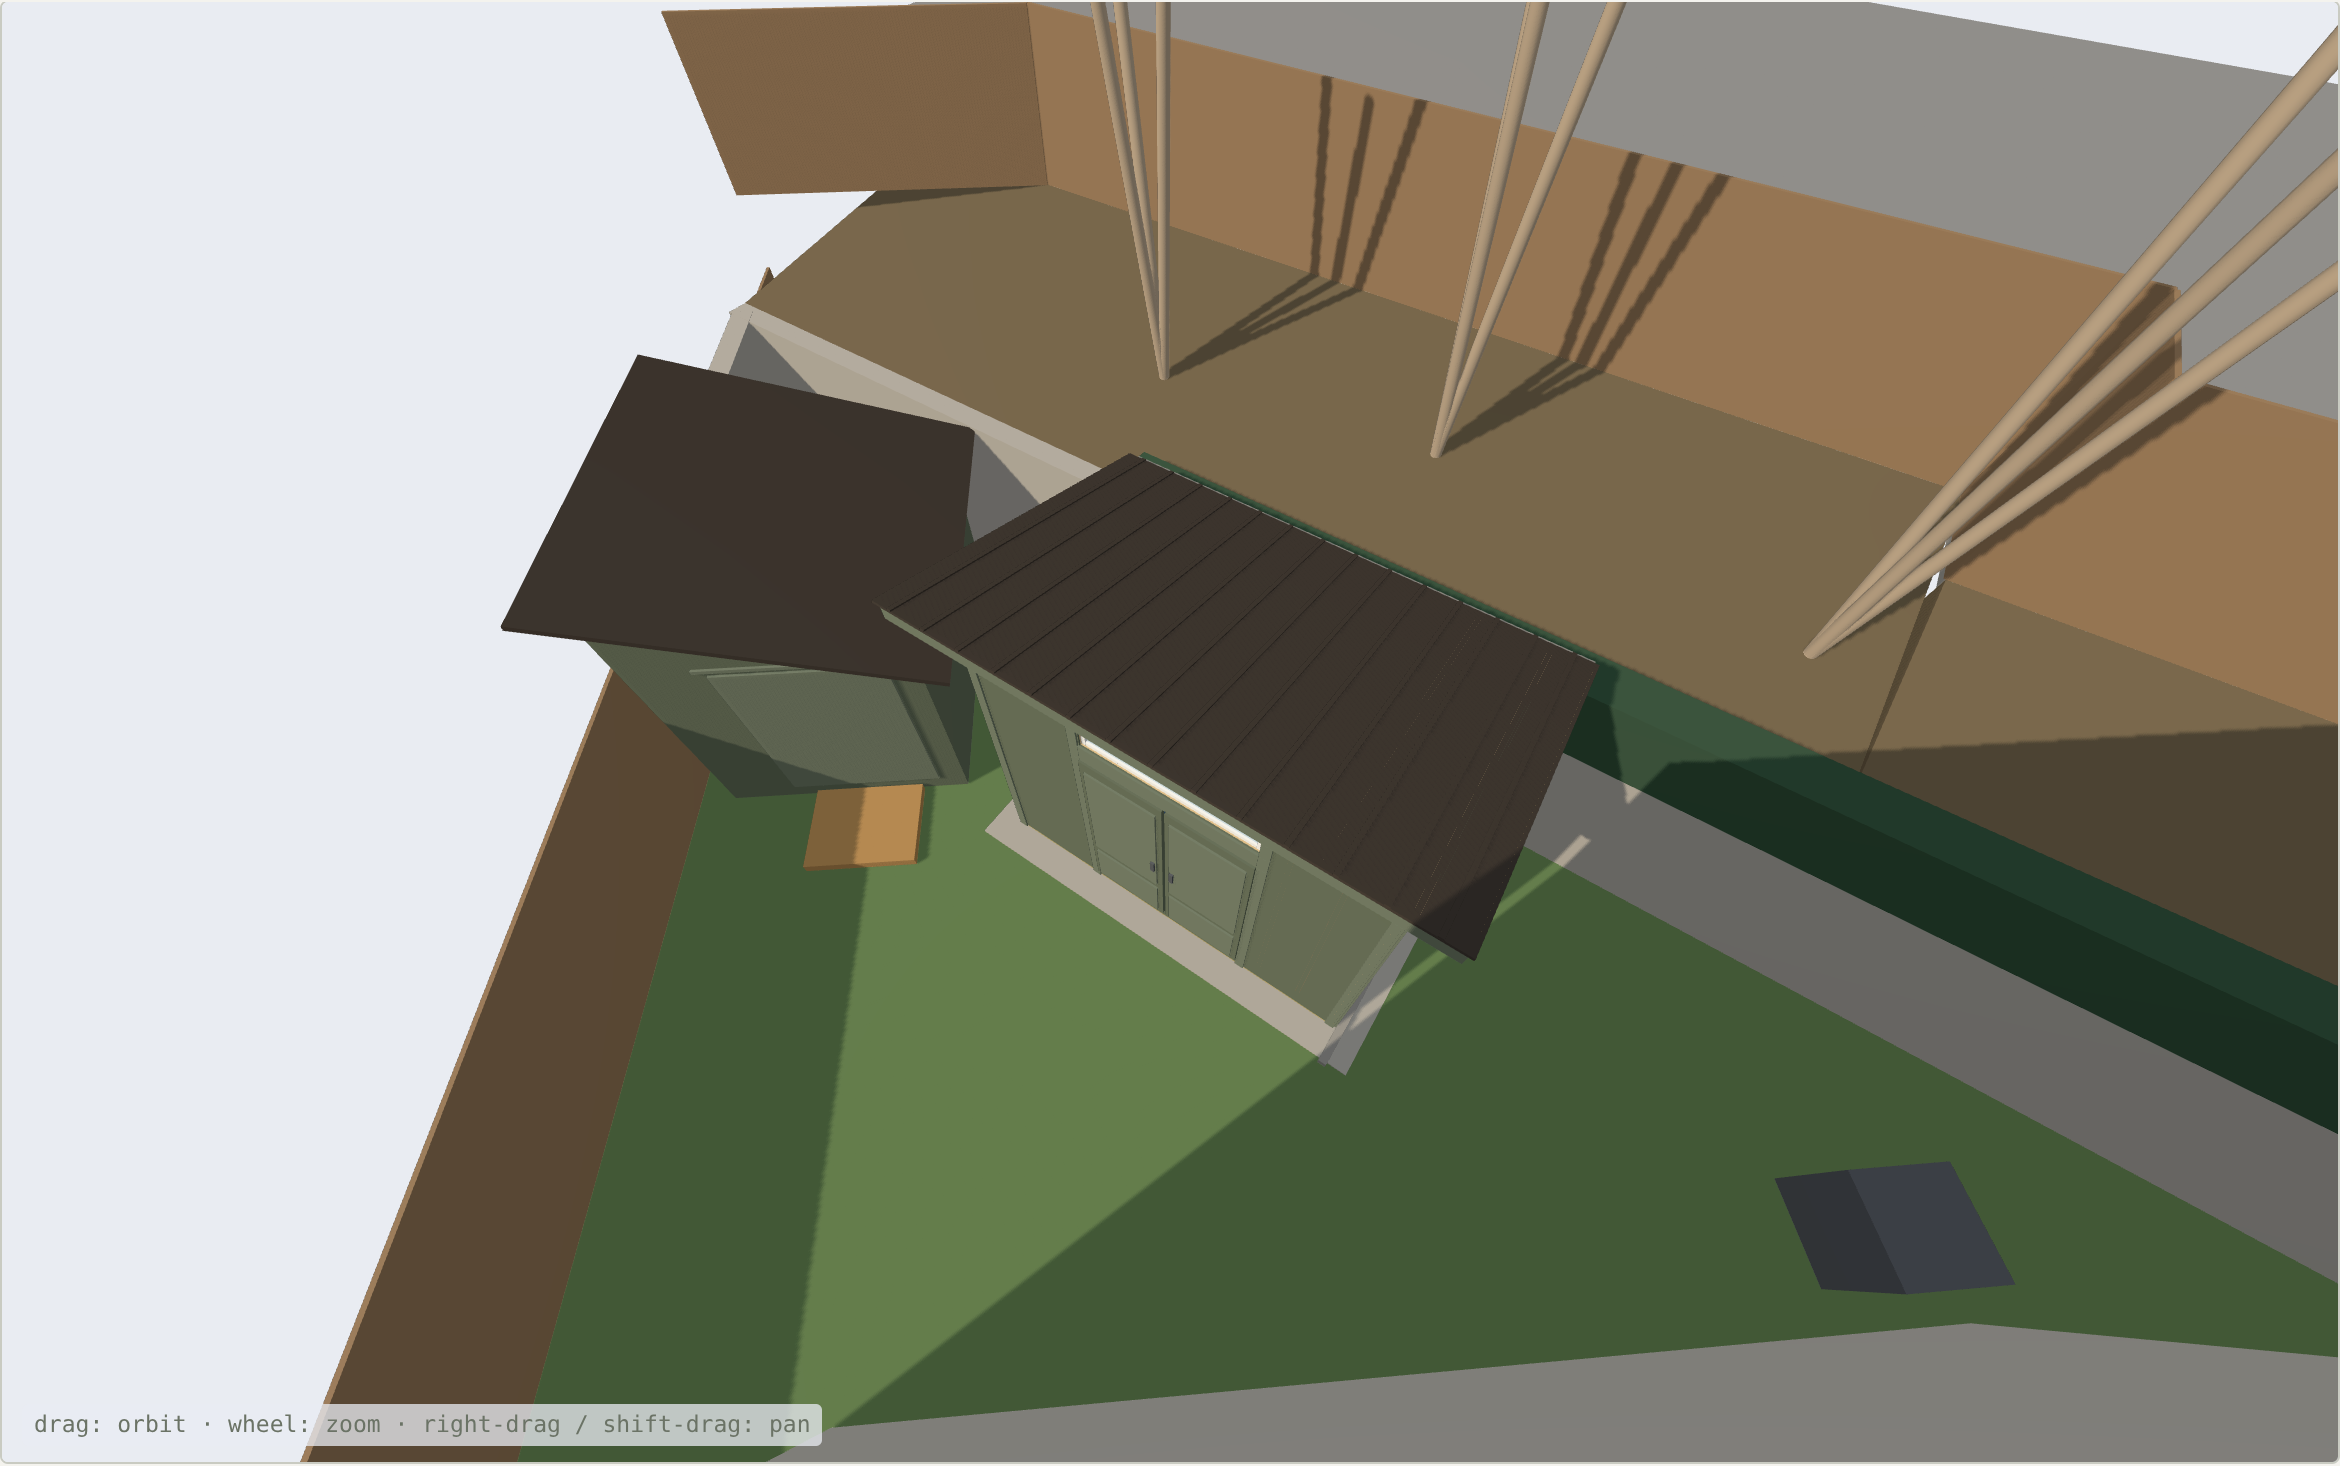
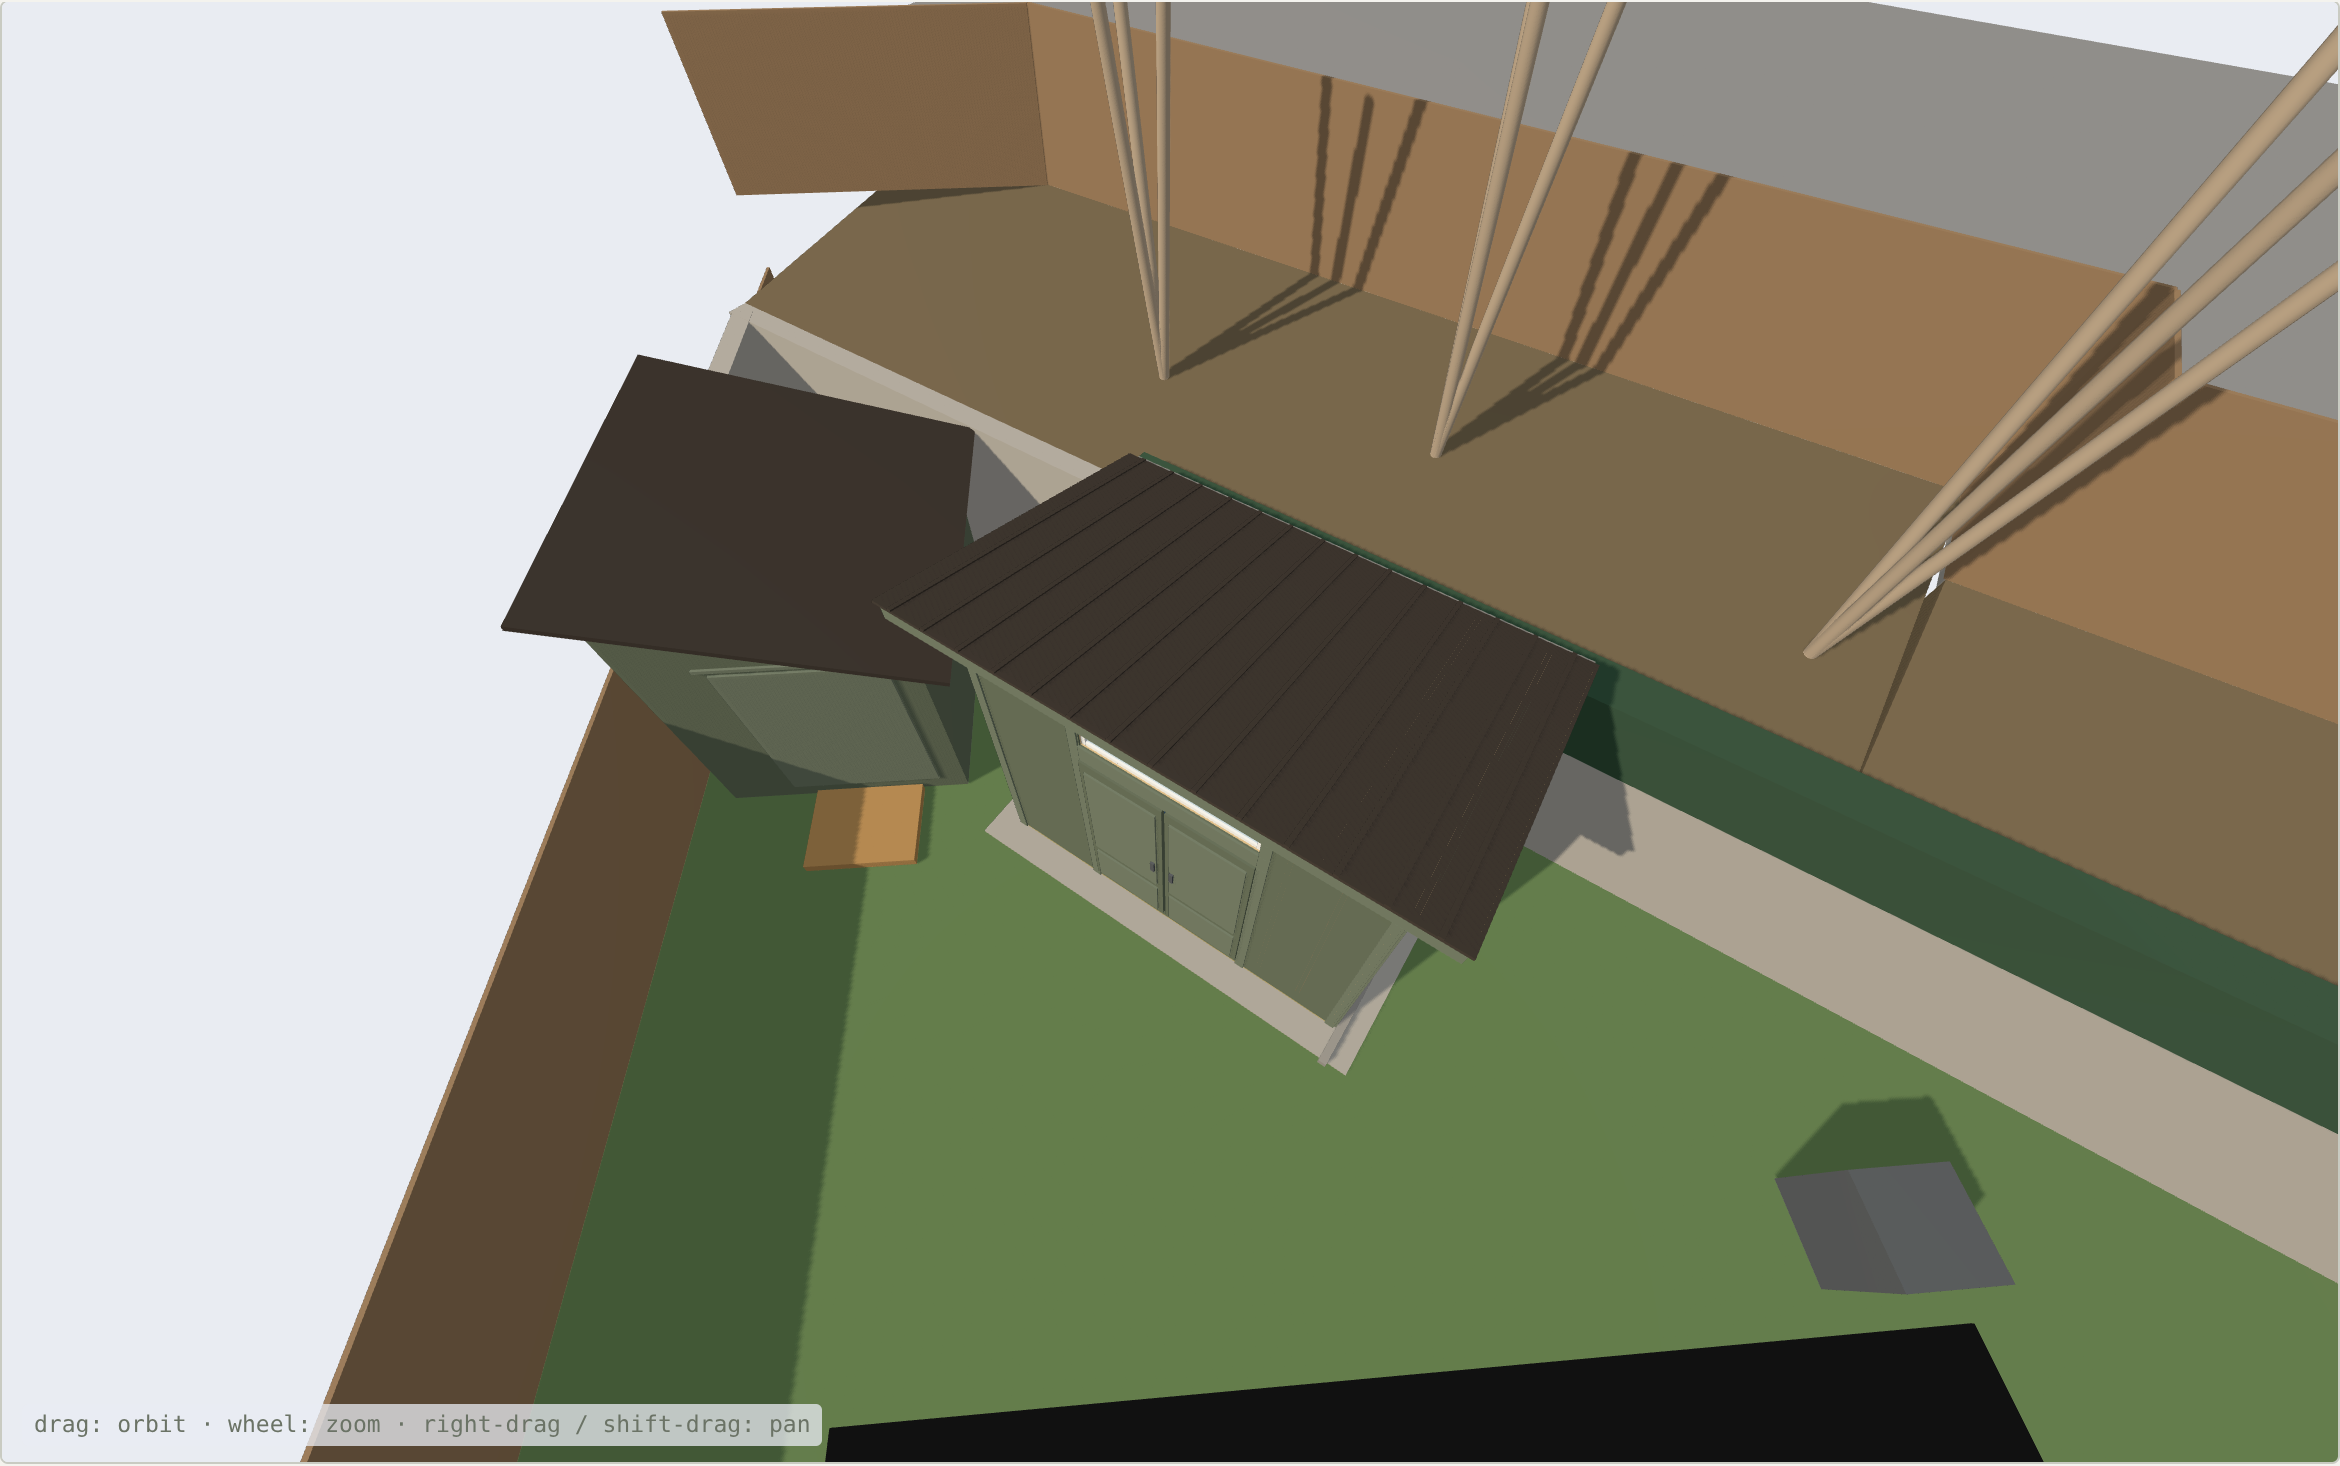
Wesley Ave bike shop 3D: house replaced by a black footprint
The house block hid the shop from most angles. It is now a flat
black shape on the ground so the model can be orbited freely.

Claude-Session: https://claude.ai/code/session_01R9UvhtAqJY5gdMeoqmJDyn

Changed region(s): [[0.312, 0.4911, 1.0, 1.0]]

diff --git a/docs/wesley-ave/bike-shop-3d.html b/docs/wesley-ave/bike-shop-3d.html
@@ -41,7 +41,7 @@
   <header>
     <div class="eyebrow">2926 Wesley Ave, Charlotte &middot; 12' x 6' bike shop, no permit</div>
     <h1>Wesley Ave bike shop in 3D</h1>
-    <p class="lede">The shop as it would stand along the retaining wall behind the house: tall door wall facing the yard with a transom, the roof pitched 2.8:12 toward the wall and carried 26" past the back wall to cover the strip behind it, six XL 29ers on Steadyracks, the bench by the door, the parts tower and the parked stand inside, wheels and long tools hung under the overhang outside. The site was corrected on 10 November from two photos taken on the third-floor deck: the wall is inside the lot with a planted bank and the sidewalk fence behind it, the old shed's back corner nearly touches the wall, and the lawn between the house and the old shed is about 17.5 ft deep, so the shop was cut from 8 ft to 6 ft deep, which puts its nearest corner about 8.3 ft from the house. Drag to orbit, scroll to zoom, right-drag or shift-drag to pan. Untick the skin to see the framing.</p>
+    <p class="lede">The shop as it would stand along the retaining wall behind the house: tall door wall facing the yard with a transom, the roof pitched 2.8:12 toward the wall and carried 26" past the back wall to cover the strip behind it, six XL 29ers on Steadyracks, the bench by the door, the parts tower and the parked stand inside, wheels and long tools hung under the overhang outside. The site was corrected on 10 November from two photos taken on the third-floor deck: the wall is inside the lot with a planted bank and the sidewalk fence behind it, the old shed's back corner nearly touches the wall, and the lawn between the house and the old shed is about 17.5 ft deep, so the shop was cut from 8 ft to 6 ft deep, which puts its nearest corner about 8.3 ft from the house. The house itself is not drawn, so you can orbit freely: the black shape on the ground is its footprint. Drag to orbit, scroll to zoom, right-drag or shift-drag to pan. Untick the skin to see the framing.</p>
   </header>
 
   <div class="bar" role="group" aria-label="What is shown">
@@ -337,8 +337,9 @@
   box(site, mat.gravel, -12, -36, -1.5, L + 24, D + 48, 2.0);
   const roadC = toF([57, -24]), roadA = angF([1, 0]);
   const road = new THREE.Mesh(new THREE.BoxGeometry(170 * 12, 44 * 12, 2), mat.road); road.position.set(roadC[0], roadC[1], -1.4); road.rotation.z = roadA; road.receiveShadow = true; site.add(road);
-  extrude(site, mat.house, HOUSE.map(toF), null, 336, [1, 0, 0, 0, 0, 1, 0, 0, 0, 0, 1, 0, 0, 0, 0, 1]);
-  extrude(site, mat.houseRoof, HOUSE.map(toF), null, 6, [1, 0, 0, 0, 0, 1, 0, 0, 0, 0, 1, 336, 0, 0, 0, 1]);
+  // the house is left out so the model can be orbited freely; its footprint is a flat black slab on the ground
+  const houseMark = extrude(site, new THREE.MeshBasicMaterial({ color: 0x111111 }), HOUSE.map(toF), null, 1.5, [1, 0, 0, 0, 0, 1, 0, 0, 0, 0, 1, 0, 0, 0, 0, 1]);
+  houseMark.castShadow = false; houseMark.receiveShadow = false;
   function seg(a, b, thick, z0, h, m, off) {      // a box along the lot-frame segment a to b; off shifts it sideways, inches
     const A = toF(a), B = toF(b), dx = B[0] - A[0], dy = B[1] - A[1], len = Math.hypot(dx, dy);
     const mesh = new THREE.Mesh(new THREE.BoxGeometry(len, thick, h), m);
